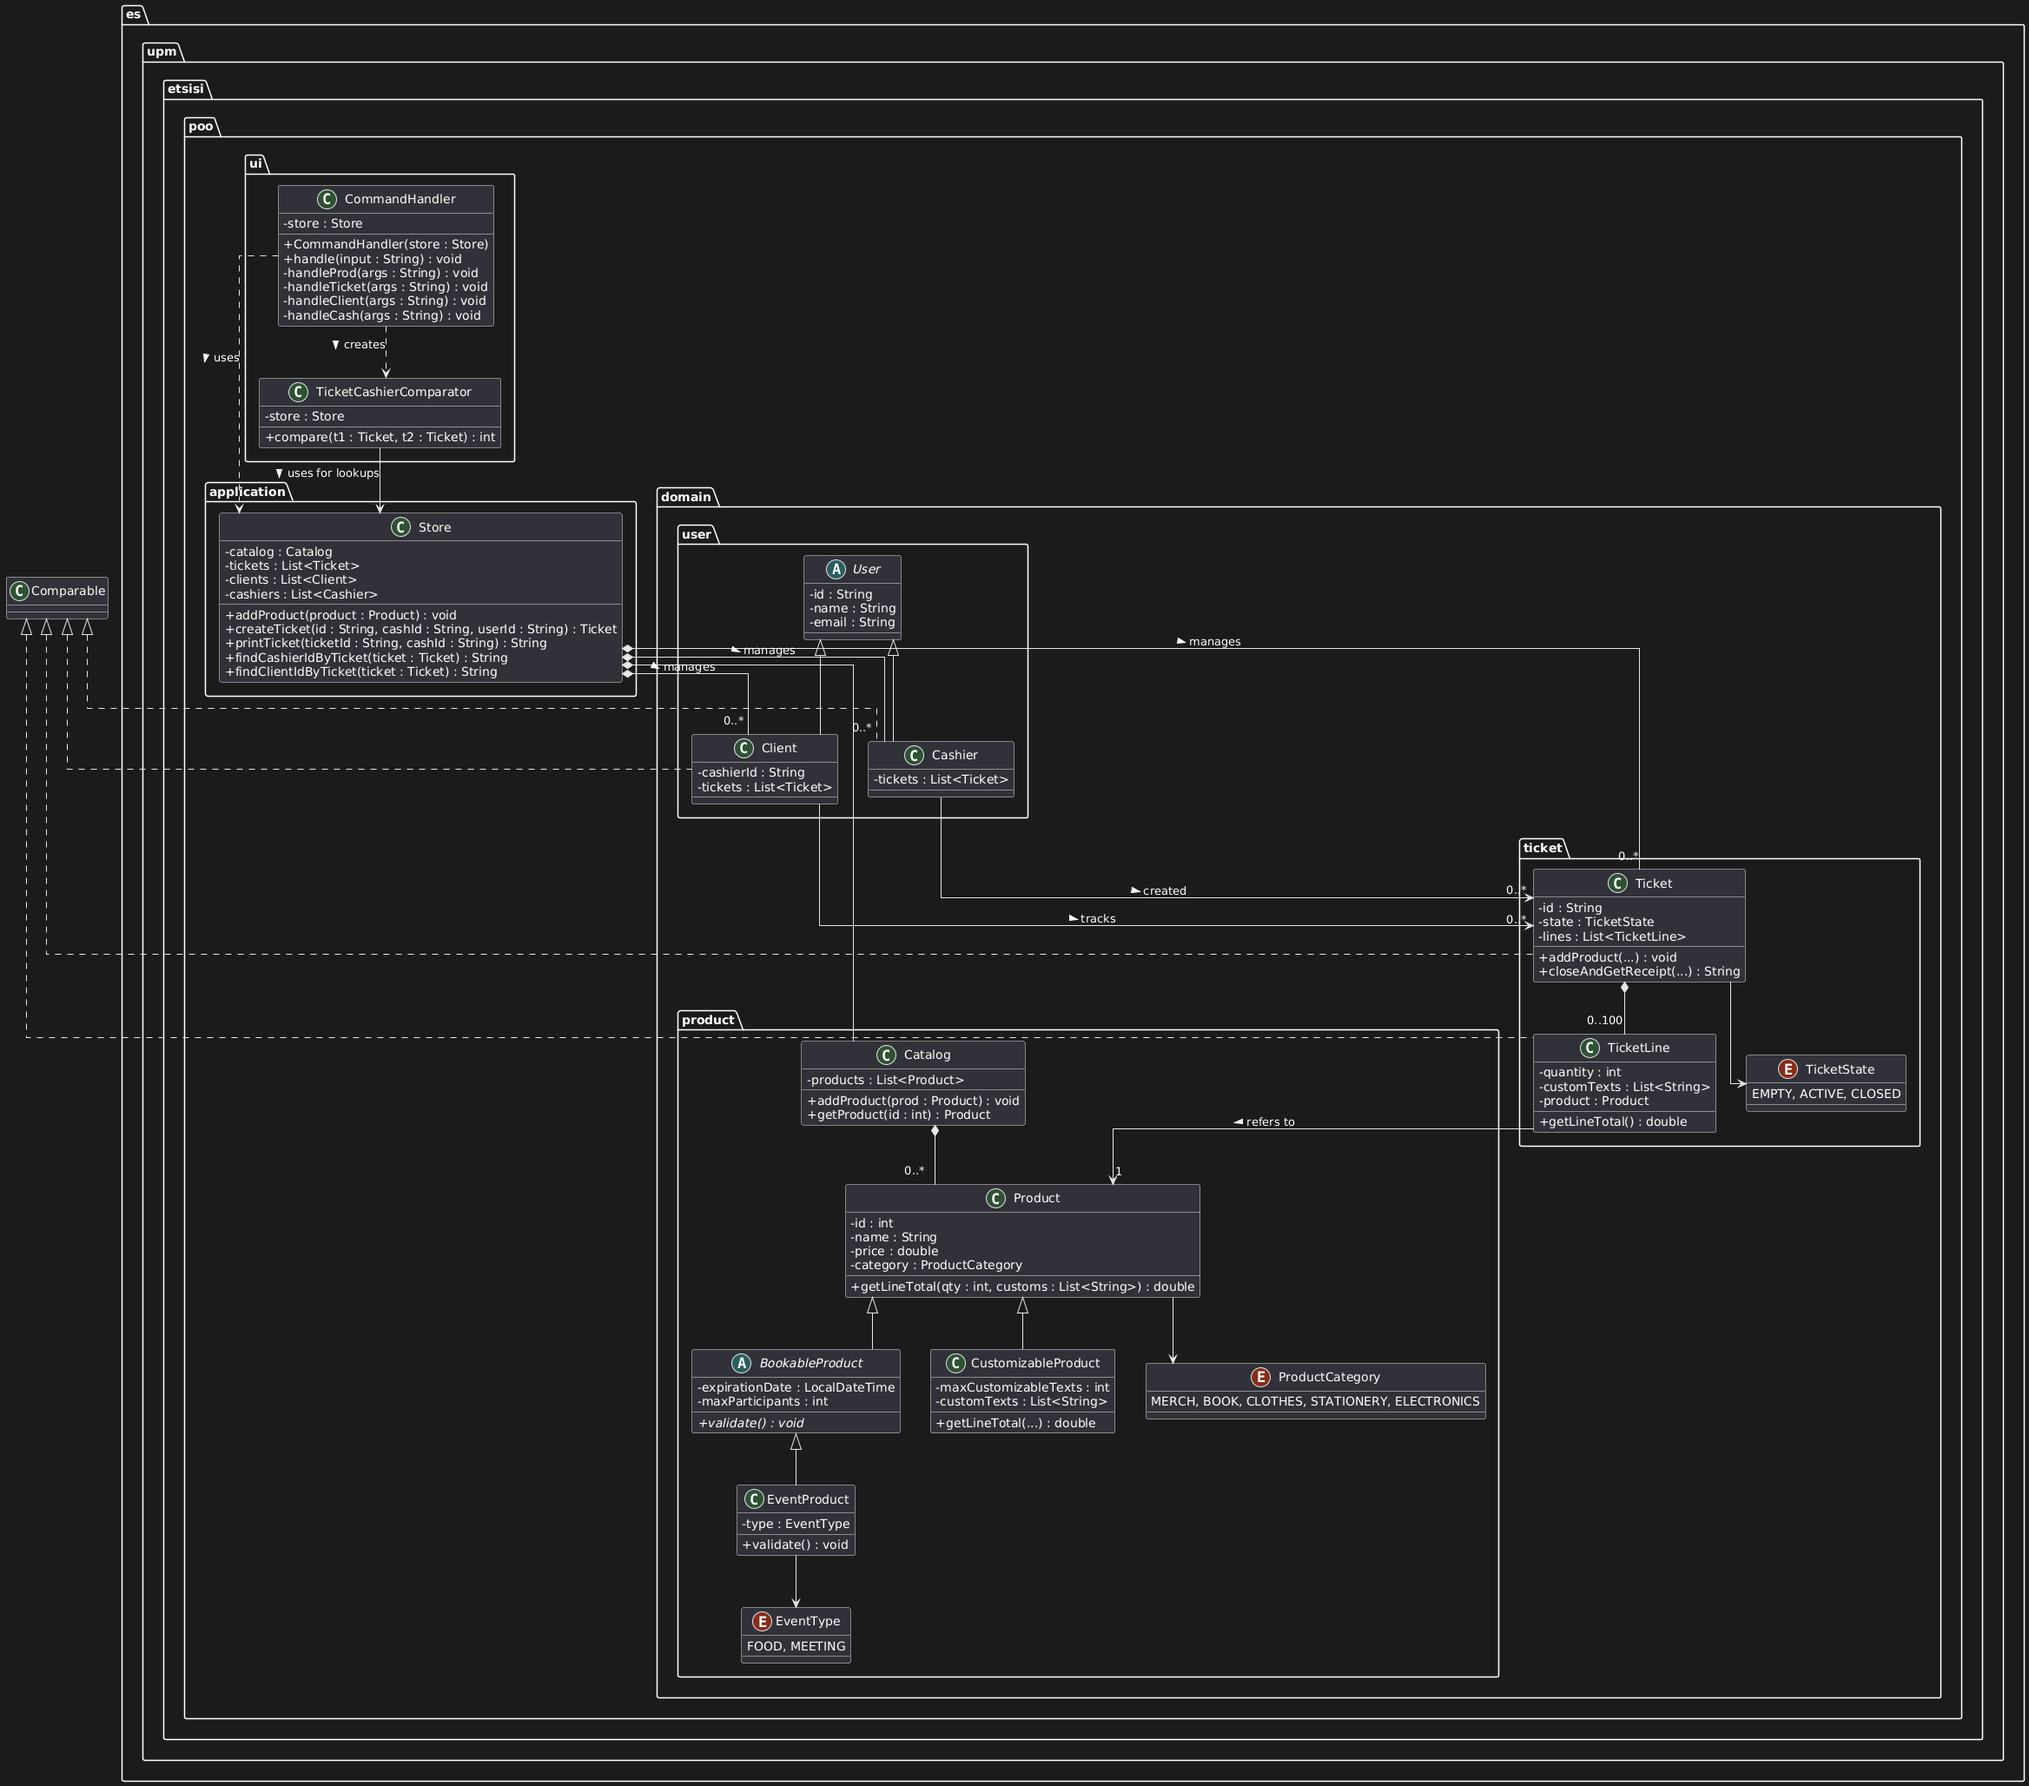
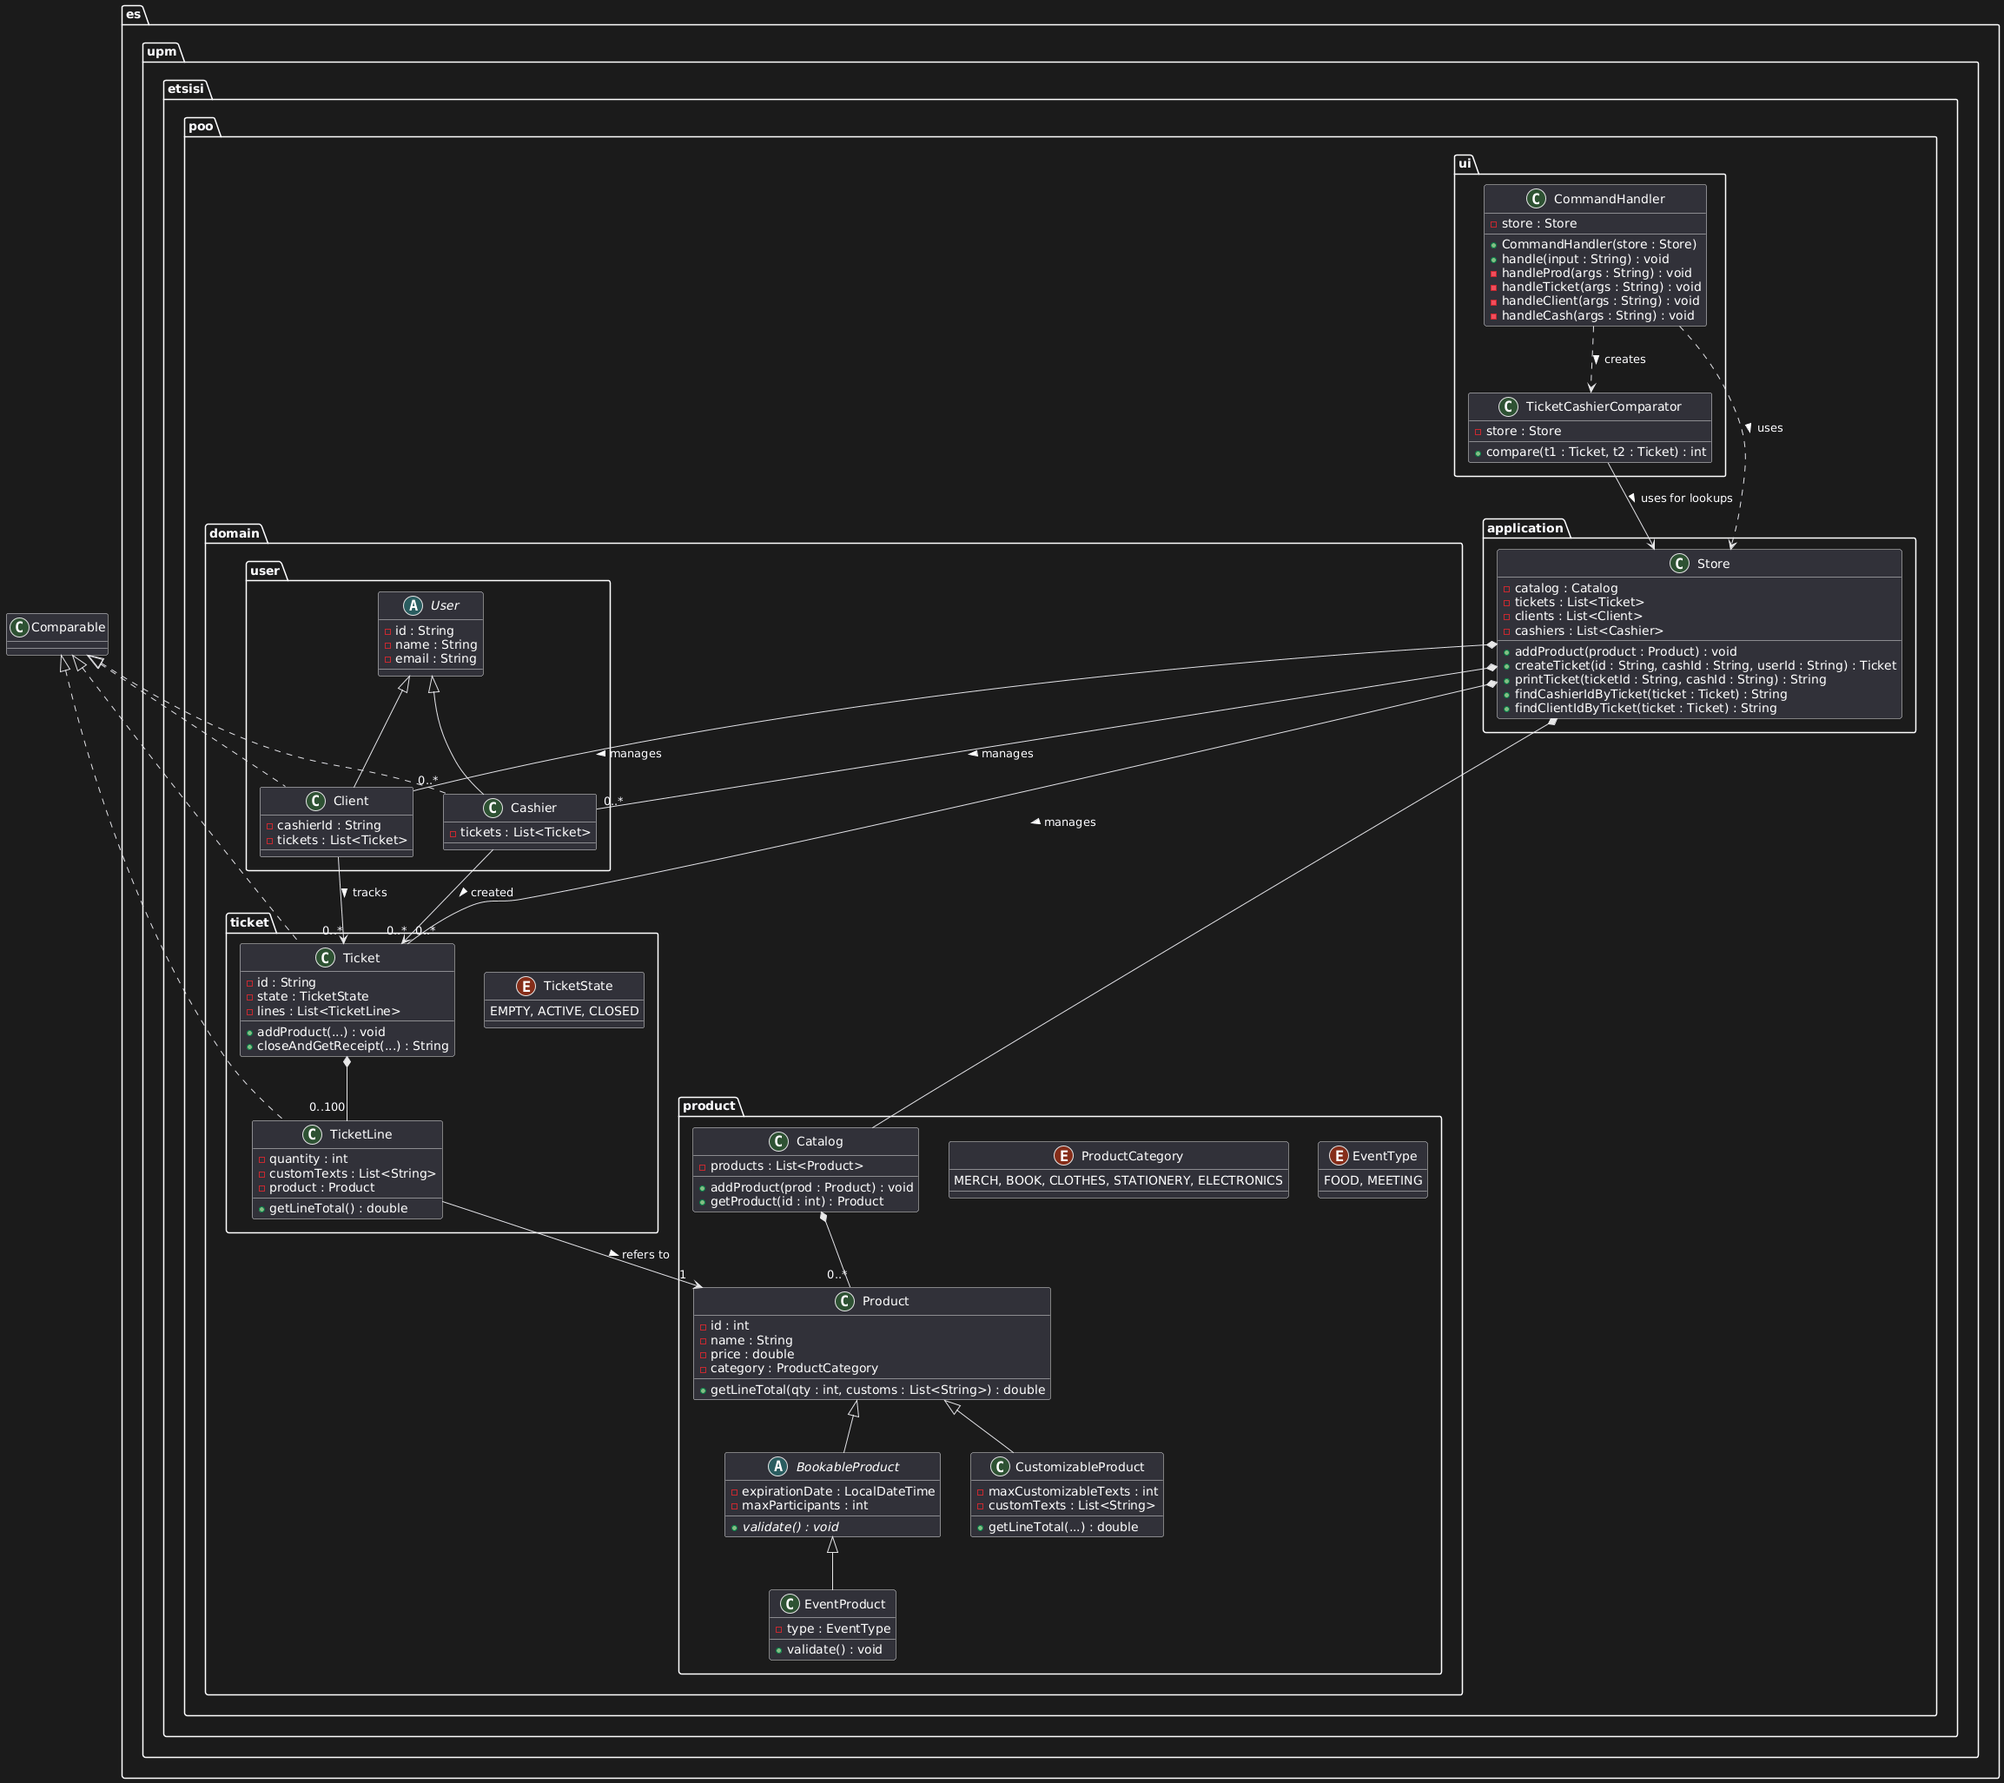
Update UML Diagram and refactor product classes for clarity and consistency

diff --git a/src/main/java/es/upm/etsisi/poo/domain/product/EventProduct.java b/src/main/java/es/upm/etsisi/poo/domain/product/EventProduct.java
@@ -2,7 +2,11 @@ package es.upm.etsisi.poo.domain.product;
 
 import java.time.LocalDateTime;
 
+// Represents an event product that can be booked, as defined in E2.
 public class EventProduct extends BookableProduct {
+    private static final int MIN_FOOD_PLANNING_DAYS = 3;
+    private static final int MIN_MEETING_PLANNING_HOURS = 12;
+
     private final EventType type;
 
     public EventProduct(String name, double price, LocalDateTime expirationDate, int maxParticipants, EventType type) {
@@ -25,13 +29,13 @@ public class EventProduct extends BookableProduct {
         // Validation logic based on type (Food vs Meeting)
         if (type == EventType.FOOD) {
             // Food: planned at least 3 days in advance
-            if (getExpirationDate().isBefore(LocalDateTime.now().plusDays(3))) {
-                throw new IllegalStateException("Error: Food products must be planned at least 3 days in advance.");
+            if (getExpirationDate().isBefore(LocalDateTime.now().plusDays(MIN_FOOD_PLANNING_DAYS))) {
+                throw new IllegalStateException("Error: Food products must be planned at least " + MIN_FOOD_PLANNING_DAYS + " days in advance.");
             }
         } else if (type == EventType.MEETING) {
             // Meeting: planned at least 12 hours in advance
-            if (getExpirationDate().isBefore(LocalDateTime.now().plusHours(12))) {
-                throw new IllegalStateException("Error: Meeting products must be planned at least 12 hours in advance.");
+            if (getExpirationDate().isBefore(LocalDateTime.now().plusHours(MIN_MEETING_PLANNING_HOURS))) {
+                throw new IllegalStateException("Error: Meeting products must be planned at least " + MIN_MEETING_PLANNING_HOURS + " hours in advance.");
             }
         }
     }

diff --git a/src/main/java/es/upm/etsisi/poo/ui/CommandHandler.java b/src/main/java/es/upm/etsisi/poo/ui/CommandHandler.java
@@ -1,17 +1,16 @@
 package es.upm.etsisi.poo.ui;
 
 import java.util.List;
-import java.util.Collections;
 import java.util.ArrayList;
 import java.time.LocalDate;
+import java.util.Collections;
 import java.time.format.DateTimeFormatter;
 
-import es.upm.etsisi.poo.application.Store;
 import es.upm.etsisi.poo.domain.product.*;
-import es.upm.etsisi.poo.domain.ticket.Ticket;
-import es.upm.etsisi.poo.domain.user.Cashier;
+import es.upm.etsisi.poo.application.Store;
 import es.upm.etsisi.poo.domain.user.Client;
-
+import es.upm.etsisi.poo.domain.user.Cashier;
+import es.upm.etsisi.poo.domain.ticket.Ticket;
 
 // This class acts as the Controller. It parses user input and calls Store methods.
 public class CommandHandler {
@@ -54,12 +53,10 @@ public class CommandHandler {
                 default:
                     System.out.println("Command not recognized. Type 'help' for a list of commands.");
             }
-        } catch (IllegalArgumentException e) {
-            System.out.println(e.getMessage());
-        } catch (IllegalStateException e) {
-            // Catches the exception thrown by EventProduct validation and Ticket state checks
+        } catch (IllegalArgumentException | IllegalStateException e) {
             System.out.println(e.getMessage());
         }
+        // IllegalStateException catches the exception thrown by EventProduct validation and Ticket state checks
     }
 
     // Parses arguments, respecting quoted strings

diff --git a/src/main/java/es/upm/etsisi/poo/application/Store.java b/src/main/java/es/upm/etsisi/poo/application/Store.java
@@ -1,13 +1,14 @@
 package es.upm.etsisi.poo.application;
 
+import es.upm.etsisi.poo.domain.user.Client;
+import es.upm.etsisi.poo.domain.user.Cashier;
+import es.upm.etsisi.poo.domain.ticket.Ticket;
 import es.upm.etsisi.poo.domain.product.Catalog;
 import es.upm.etsisi.poo.domain.product.Product;
-import es.upm.etsisi.poo.domain.ticket.Ticket;
-import es.upm.etsisi.poo.domain.user.Cashier;
-import es.upm.etsisi.poo.domain.user.Client;
 
-import java.util.ArrayList;
 import java.util.List;
+import java.util.ArrayList;
+
 
 // Represents the store, acts as the model, holding all the application's data as per E2 requirements.
 public class Store {
@@ -215,7 +216,7 @@ public class Store {
         return catalog;
     }
 
-    // Delegate methods to avoid Law of Demeter violation in CommandHandler
+    // Delegate methods to keep Store as the main interface for product management
     public List<Product> getProducts() {
         return catalog.getProducts();
     }

diff --git a/src/main/java/es/upm/etsisi/poo/domain/product/CustomizableProduct.java b/src/main/java/es/upm/etsisi/poo/domain/product/CustomizableProduct.java
@@ -5,9 +5,9 @@ import java.util.ArrayList;
 
 // Represents a product that can be customized with texts, as defined in E2
 public class CustomizableProduct extends Product {
-    private static final double CUSTOM_SURCHARGE = 0.1;     //E2 Requirement: 10% surcharge per custom text
     private final int maxCustomizableTexts;
     private final List<String> customTexts;
+    private static final double CUSTOM_SURCHARGE = 0.1;     //E2 Requirement: 10% surcharge per custom text
 
     @SuppressWarnings("Convert2Diamond")
     public CustomizableProduct(String name, ProductCategory category, double price, int maxCustomizableTexts) {
@@ -52,6 +52,4 @@ public class CustomizableProduct extends Product {
         return String.format("{class: %s, id:%d, name:'%s', category:%s, price:%.1f, customTexts:%s}",
                 this.getClass().getSimpleName(), getId(), getName(), getCategory(), getPrice(), customTexts);
     }
-
-
 }

diff --git a/src/main/java/es/upm/etsisi/poo/domain/product/EventType.java b/src/main/java/es/upm/etsisi/poo/domain/product/EventType.java
@@ -2,19 +2,22 @@ package es.upm.etsisi.poo.domain.product;
 
 import java.time.LocalDateTime;
 
+// Represents event types and their planning time requirements as defined in E2.
 public enum EventType {
     FOOD(3),
     MEETING(0);
 
     private final int minPlanningDays;
+    private static final int MIN_MEETING_PLANNING_HOURS = 12;
 
     EventType(int minPlanningDays) {
         this.minPlanningDays = minPlanningDays;
     }
 
+    // Returns true if the planning time requirement is met for the given expiration date.
     public boolean isPlanningTimeValid(LocalDateTime expirationDate) {
         if (this == MEETING) {
-            return LocalDateTime.now().plusHours(12).isBefore(expirationDate);
+            return LocalDateTime.now().plusHours(MIN_MEETING_PLANNING_HOURS).isBefore(expirationDate);
         }
         return LocalDateTime.now().plusDays(minPlanningDays).isBefore(expirationDate);
     }

diff --git a/src/main/java/es/upm/etsisi/poo/domain/product/Product.java b/src/main/java/es/upm/etsisi/poo/domain/product/Product.java
@@ -6,12 +6,12 @@ import java.util.List;
 // Represents a standard product, as defined in E1 and E2.
 public class Product {
 
+    private int id;
     private String name;
     private double price;
-    private int id;
+    private static int nextId = 1;
     private ProductCategory category;
     private static final double MIN_PRICE = 0.0;        // E1 requirement: price must be > 0
-    private static int nextId = 1;
     private static final int MAX_NAME_LENGTH = 100;     // E1 reqeuirement: name max length to be under 100 char
 
     public Product(String name, ProductCategory category, double price) {

diff --git a/src/main/java/es/upm/etsisi/poo/domain/product/BookableProduct.java b/src/main/java/es/upm/etsisi/poo/domain/product/BookableProduct.java
@@ -2,9 +2,10 @@ package es.upm.etsisi.poo.domain.product;
 
 import java.time.LocalDateTime;
 
+// Represents an event product that can be booked, as defined in E2.
 public abstract class BookableProduct extends Product {
-    private final LocalDateTime expirationDate;
     private final int maxParticipants;
+    private final LocalDateTime expirationDate;
 
     public BookableProduct(String name, double price, LocalDateTime expirationDate, int maxParticipants) {
         // E2 Requirement: These products do not have a category, so we pass null.

diff --git a/src/main/java/es/upm/etsisi/poo/domain/user/Client.java b/src/main/java/es/upm/etsisi/poo/domain/user/Client.java
@@ -3,7 +3,7 @@ package es.upm.etsisi.poo.domain.user;
 import java.util.ArrayList;
 import java.util.List;
 
-import es.upm.etsisi.poo.domain.ticket.Ticket; 
+import es.upm.etsisi.poo.domain.ticket.Ticket;
 
 public class Client extends User implements Comparable<Client> {
     private final String cashierId;

diff --git a/src/main/java/es/upm/etsisi/poo/domain/ticket/Ticket.java b/src/main/java/es/upm/etsisi/poo/domain/ticket/Ticket.java
@@ -201,7 +201,7 @@ public class Ticket implements Comparable<Ticket> {
                     sb.append(" ").append(text);
                 }
             }
-            // Nueva línea para el siguiente item.
+            // New line after each product line.
             sb.append("\n");
         }
 
